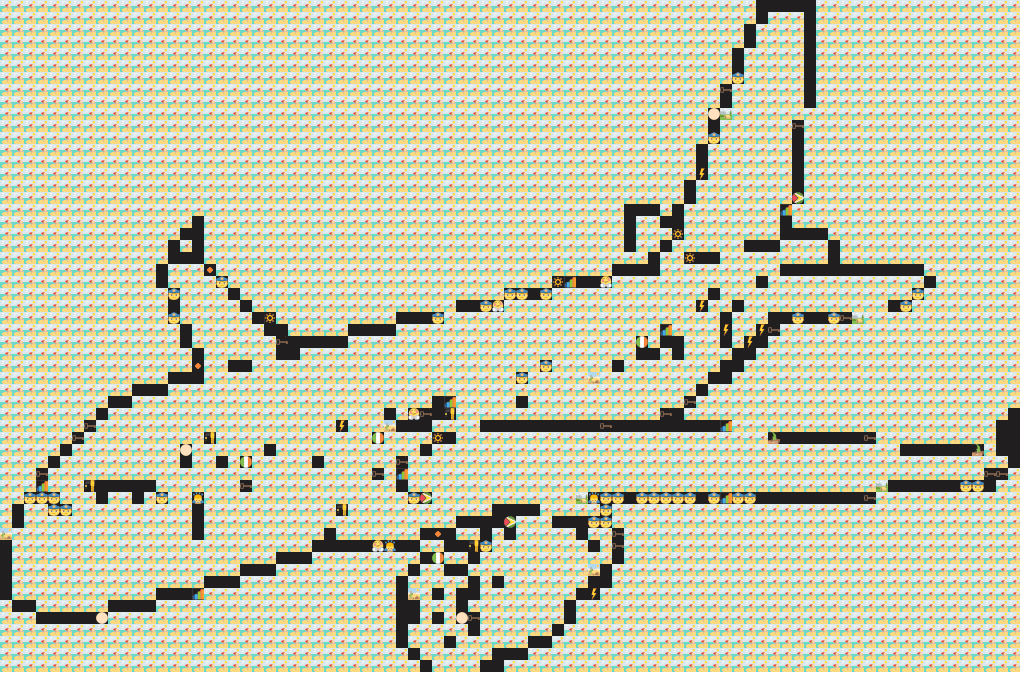
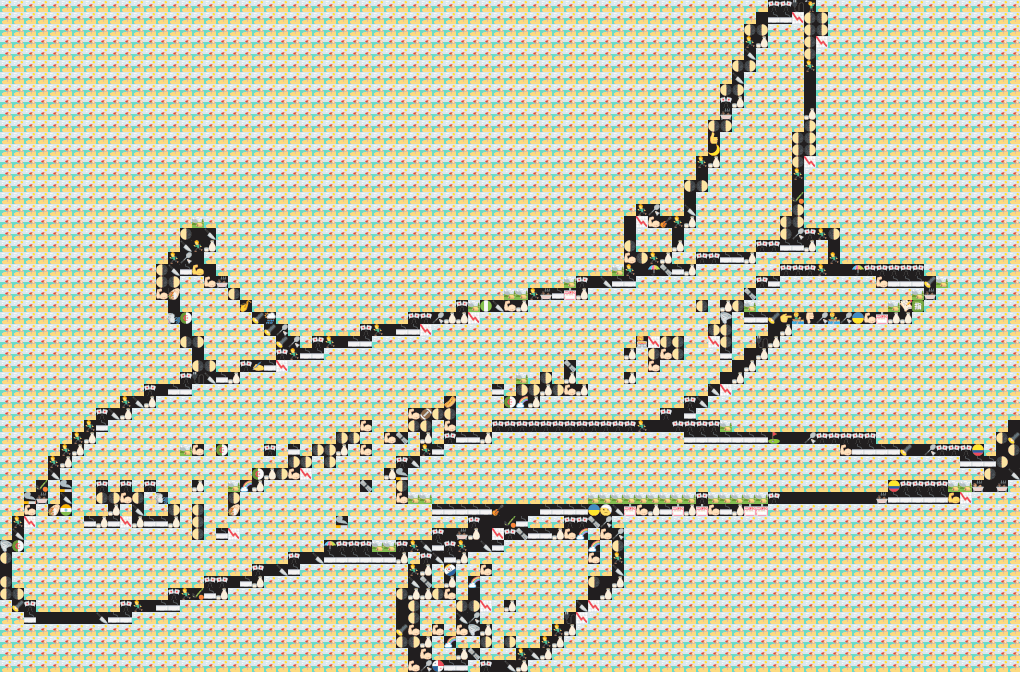
Hybrid map generator now works. Color + sub-char lookup!

Changed region(s): [[0.0, 0.0, 0.9375, 0.9853], [0.7812, 0.585, 1.0, 0.739], [0.75, 0.154, 0.8125, 0.2463]]

diff --git a/HybridMapgen.cs b/HybridMapgen.cs
@@ -1,7 +1,22 @@
 /*
 
-similar to PetsciiMapgen,
-except instead of the "value set" being NxN spacial tiles, the valueset will be 0-1 H,S,V (averaged).
+combination of the other 2 map generators.
+considers YUV components, spread over sub-char tiles.
+
+similar to video encoding, we give more detail to the Y component.
+So, Y is expressed through the spacial mapping.
+And UV are always given 1 component each (whole-char)
+
+This means more dimensions than before, which means bigger maps.
+You'll never go more than 2x2 for Y. and UV are 1
+so realistically this is ALWAYS 6 dimensions.
+
+Each dimension can theoretically have N discrete values, however for simplicity and performance I just want 
+to make them all have the same buckets.
+
+the original 2x2x16 map had 64k entries and felt reasonable. To achieve that
+with 6 dimensions, it means about 6 values per dimension. and heck that's not
+bad at all really.
 
  */
 
@@ -18,35 +33,43 @@ using System.Linq.Expressions;
 using System.Runtime.CompilerServices;
 using System.Drawing.Imaging;
 
-using ValueSet = PetsciiMapgen.ValueSet;
-using Utils = PetsciiMapgen.Utils;
-using CharInfo = PetsciiMapgen.CharInfo;
-using Mapping = PetsciiMapgen.Mapping;
-
-namespace HSVMapgen
+namespace PetsciiMapgen
 {
-  public class PetsciiMap
+  public class HybridMap
   {
-    public ValueSet weights = new ValueSet(-1);
+    public ValueSet weights = new ValueSet(-1); // weights for calculating distance.
     public Bitmap mapBmp;
     public Size charSize;
+    public Size tilesPerCell;
     public int valuesPerComponent;
+    public int componentsPerCell; // # of dimensions (UV + Y*size)
 
-    public PetsciiMap(string fontFileName, Size charSize, int valuesPerComponent)
+    private HybridMap()
     {
-      this.weights[0] = .6;
-      this.weights[1] = .2;
-      this.weights[2] = .2;
+      //
+    }
 
+    public HybridMap(string fontFileName, Size charSize, Size tilesPerCell, int valuesPerComponent, double Yweight, double UVweight)
+    {
+      // we want Y to be weighted at .6 and UV to be .4.
+      this.weights[0] = UVweight / 2;
+      this.weights[1] = UVweight / 2;
+      int numYcomponents = Utils.Product(tilesPerCell);
+      for (int i = 0; i < numYcomponents; ++ i)
+      {
+        this.weights[i + 2] = Yweight / numYcomponents;
+      }
+
+      this.tilesPerCell = tilesPerCell;
       this.charSize = charSize;
       this.valuesPerComponent = valuesPerComponent;
+      this.componentsPerCell = numYcomponents + 2;
 
       var srcImg = System.Drawing.Image.FromFile(fontFileName);
-
       var srcBmp = new Bitmap(srcImg);
-      System.Drawing.Size numSrcChars = Utils.Div(srcImg.Size, charSize);
+      Size numSrcChars = Utils.Div(srcImg.Size, charSize);
 
-      double numDestCharacters = Math.Pow(valuesPerComponent, 3);
+      double numDestCharacters = Math.Pow(valuesPerComponent, componentsPerCell);
 
       Console.WriteLine("Src character size: " + Utils.ToString(charSize));
       Console.WriteLine("Src image size: " + Utils.ToString(srcBmp.Size));
@@ -54,22 +77,18 @@ namespace HSVMapgen
       Console.WriteLine("Number of source chars (1d): " + Utils.Product(numSrcChars));
       Console.WriteLine("Chosen values per tile: " + valuesPerComponent);
       Console.WriteLine("Resulting map will have this many entries: " + numDestCharacters);
-      //int maxUsages = (int)Math.Ceiling(numDestCharacters / Utils.Product(numSrcChars));
-      //Console.WriteLine("Characters shall be re-used maximum: " + maxUsages);
-
-      //double pixelsPerTileAvgX = (double)charSize.Width / numTilesPerChar.Width;
-      //double pixelsPerTileAvgY = (double)charSize.Height / numTilesPerChar.Height;
-      //double pixelsPerTile = pixelsPerTileAvgX * pixelsPerTileAvgY;
 
       // fill in char source info (actual tile values)
       var charInfo = new List<CharInfo>();
       int pixelsPerChar = Utils.Product(charSize);
-      Utils.ValueRangeInspector indY = new Utils.ValueRangeInspector();
-      Utils.ValueRangeInspector indU = new Utils.ValueRangeInspector();
-      Utils.ValueRangeInspector indV = new Utils.ValueRangeInspector();
-      Utils.ValueRangeInspector avgY = new Utils.ValueRangeInspector();
-      Utils.ValueRangeInspector avgU = new Utils.ValueRangeInspector();
-      Utils.ValueRangeInspector avgV = new Utils.ValueRangeInspector();
+
+      // used for normalization later
+      List<Utils.ValueRangeInspector> ranges = new List<Utils.ValueRangeInspector>();
+      for (int i = 0; i < componentsPerCell; ++ i)
+      {
+        ranges.Add(new Utils.ValueRangeInspector());
+      }
+
       for (int y = 0; y < numSrcChars.Height; ++y)
       {
         for (int x = 0; x < numSrcChars.Width; ++x)
@@ -82,62 +101,36 @@ namespace HSVMapgen
             srcIndex = new Point(x, y)
           };
 
-          // process this single tile of this char.
-          for (int py = 0; py < charSize.Height; ++py)
+          ProcessCharacter(srcBmp, ci);
+
+          for (int i = 0; i < componentsPerCell; ++i)
           {
-            for (int px = 0; px < charSize.Width; ++px)
-            {
-              var c = srcBmp.GetPixel(ci.srcOrigin.X + px, ci.srcOrigin.Y + py);
-              //double hue, saturation, value;
-              //Utils.ColorToHSV(c, out hue, out saturation, out value);
-              //hue /= 360.0;
-              //hue = 0.0;
-              //ci.actualValues[0] += hue;
-              //ci.actualValues[1] += saturation;
-              //ci.actualValues[2] += value;
-              double cy, cu, cv;
-              Utils.RGBtoYUV(c, out cy, out cu, out cv);
-              ci.actualValues[0] += cy;
-              ci.actualValues[1] += cu;
-              ci.actualValues[2] += cv;
-
-              indY.Visit(cy);
-              indU.Visit(cu);
-              indV.Visit(cv);
-            }
+            ranges[i].Visit(ci.actualValues[i]);
           }
-          // divide => average. note that because we're using averages over
-          // a big area, it's less likely to reach 0.0 or 1.0. some kind of normalization might be needed.
-          ci.actualValues[0] /= pixelsPerChar;
-          ci.actualValues[1] /= pixelsPerChar;
-          ci.actualValues[2] /= pixelsPerChar;
-
-          avgY.Visit(ci.actualValues[0]);
-          avgU.Visit(ci.actualValues[1]);
-          avgV.Visit(ci.actualValues[2]);
 
           charInfo.Add(ci);
         }
       }
 
       Console.WriteLine("RANGES encountered:");
-      Console.WriteLine("  individual Y: " + indY);
-      Console.WriteLine("  individual U: " + indU);
-      Console.WriteLine("  individual V: " + indV);
-      Console.WriteLine("  avg Y       : " + avgY);
-      Console.WriteLine("  avg U       : " + avgU);
-      Console.WriteLine("  avg V       : " + avgV);
+      for (int i = 0; i < componentsPerCell; ++i)
+      {
+        Console.WriteLine("  [" + i + "]: " + ranges[i]);
+      }
 
       // normalize all YUV seen so it will correspond nicely with permutations.
+      Console.WriteLine("Normalizing values...");
       foreach (var ci in charInfo)
       {
-        ci.actualValues[0] = avgY.Normalize01(ci.actualValues[0]);
-        ci.actualValues[1] = avgU.Normalize01(ci.actualValues[1]);
-        ci.actualValues[2] = avgV.Normalize01(ci.actualValues[2]);
+        for (int i = 0; i < componentsPerCell; ++i)
+        {
+          ci.actualValues[i] = ranges[i].Normalize01(ci.actualValues[i]);
+        }
       }
 
       // create list of all mapkeys
-      var keys = Utils.Permutate(3, Utils.GetDiscreteValues(valuesPerComponent));
+      Console.WriteLine("Generating permutations...");
+      var keys = Utils.Permutate(componentsPerCell, Utils.GetDiscreteValues(valuesPerComponent));
 
       // - generate a list of all mappings and their distances
       // - accumulate versatility for chars
@@ -232,6 +225,60 @@ namespace HSVMapgen
       mapBmp.Save("..\\..\\img\\map.png");
     }
 
+    internal static HybridMap Load(string path, Size charSize, Size tilesPerCell, int valuesPerComponent)
+    {
+      HybridMap ret = new HybridMap();
+      ret.mapBmp = new Bitmap(Bitmap.FromFile(path));
+      ret.charSize = charSize;
+      ret.tilesPerCell = tilesPerCell;
+      ret.valuesPerComponent = valuesPerComponent;
+      ret.weights = null;
+      ret.componentsPerCell = 2 + Utils.Product(tilesPerCell);
+      return ret;
+    }
+
+  // fills in the actual component values for this character.
+  private void ProcessCharacter(Bitmap srcBmp, CharInfo ci)
+    {
+      int componentIndex = 0;
+      double charU = 0, charV = 0;
+      for (int sy = 0; sy < tilesPerCell.Height; ++sy)
+      {
+        for (int sx = 0; sx < tilesPerCell.Width; ++sx)
+        {
+          // process a tile
+          Size tileSize;
+          Point tilePos;
+          Utils.GetTileInfo(ci.size, tilesPerCell, sx, sy, out tilePos, out tileSize);
+          // process this single tile of this char.
+          // grab all pixels for this tile and calculate Y component for each
+          int tilePixelCount = 0;
+          double tileY = 0;
+          for (int py = 0; py < tileSize.Height; ++py)
+          {
+            for (int px = 0; px < tileSize.Width; ++px)
+            {
+              var c = srcBmp.GetPixel(ci.srcOrigin.X + tilePos.X + px, ci.srcOrigin.Y + tilePos.Y + py);
+              double pixY, pixU, pixV;
+              Utils.RGBtoYUV(c, out pixY, out pixU, out pixV);
+              tileY += pixY;
+              charU += pixU;
+              charV += pixV;
+              tilePixelCount++;
+            }
+          }
+
+          ci.actualValues[componentIndex] = tileY / tilePixelCount;// normalized to pixel
+          componentIndex++;
+        }
+      }
+
+      int pixelsPerChar = Utils.Product(ci.size);
+      ci.actualValues[componentIndex] = charU / pixelsPerChar;
+      componentIndex++;
+      ci.actualValues[componentIndex] = charV / pixelsPerChar;
+      componentIndex++;
+    }
 
     public void PETSCIIIZE(string srcImagePath, string destImagePath, bool shade)
     {
@@ -240,7 +287,7 @@ namespace HSVMapgen
       Bitmap destImg = new Bitmap(testBmp.Width, testBmp.Height, PixelFormat.Format32bppArgb);
 
       int mapCellsX = mapBmp.Width / charSize.Width;
-      int maxID = (int)Math.Pow(valuesPerComponent, 3);
+      int numDestCharacters = (int)Math.Pow(valuesPerComponent, componentsPerCell);
 
       using (var g = Graphics.FromImage(destImg))
       {
@@ -252,15 +299,29 @@ namespace HSVMapgen
           {
             // sample in the cell to determine the "key" "ID".
             int ID = 0;
-            Color srcColor = testBmp.GetPixel(srcCellX * charSize.Width + (charSize.Width/2), srcCellY * charSize.Height + (charSize.Height/2));
-            srcColor = Utils.AdjustContrast(srcColor, 1.2);
-            //srcColor = Color.Black;
+            double charU = 0, charV = 0;// accumulate Cr and Cb
 
-            double cy, cu, cv;
-            Utils.RGBtoYUV(srcColor, out cy, out cu, out cv);
-            vals[2] = Utils.Clamp(cy,0,1);// reverse order from how they're put into the map
-            vals[1] = Utils.Clamp(cu, 0, 1);
-            vals[0] = Utils.Clamp(cv, 0, 1);
+            for (int ty = tilesPerCell.Height - 1; ty >= 0; --ty)
+            {
+              for (int tx = tilesPerCell.Width - 1; tx >= 0; --tx)
+              {
+                Point tilePos = Utils.GetTileOrigin(charSize, tilesPerCell, tx, ty);
+                Color srcColor = testBmp.GetPixel(((srcCellX) * charSize.Width) + tilePos.X, ((srcCellY) * charSize.Height) + tilePos.Y);
+
+                srcColor = Utils.AdjustContrast(srcColor, 1.2);
+
+                double cy, cu, cv;
+                Utils.RGBtoYUV(srcColor, out cy, out cu, out cv);
+
+                int tileIndex = tx + (ty * tilesPerCell.Width);
+                vals[this.componentsPerCell - 1 - tileIndex] = Utils.Clamp(cy, 0, 1);
+                charU += cu;
+                charV += cv;
+              }
+            }
+            int numTiles = Utils.Product(tilesPerCell);
+            vals[1] = Utils.Clamp(charU / numTiles, 0, 1);
+            vals[0] = Utils.Clamp(charV / numTiles, 0, 1);
 
             // figure out which "ID" this value corresponds to.
             // (val - segCenter) would give us the boundary. for example between 0-1 with 2 segments, the center vals are .25 and .75.
@@ -269,10 +330,9 @@ namespace HSVMapgen
             // value regardless of scale or any rounding issues.
             double halfSegCenter = 0.25 / valuesPerComponent;
 
-            for(int i = 0; i < 3; ++ i )
+            for(int i = 0; i < this.componentsPerCell; ++ i )
             {
               double val = vals[i];
-              //val = 0.0;
               val -= halfSegCenter;
               val = Utils.Clamp(val, 0, 1);
               val *= valuesPerComponent;
@@ -280,9 +340,9 @@ namespace HSVMapgen
               ID += (int)Math.Floor(val);
             }
 
-            if (ID >= maxID)
+            if (ID >= numDestCharacters)
             {
-              ID = maxID - 1;
+              ID = numDestCharacters - 1;
             }
 
             // ID is now calculated.

diff --git a/Program.cs b/Program.cs
@@ -27,7 +27,7 @@ namespace PetsciiMapgen
       //PetsciiMap map = new PetsciiMap("..\\..\\img\\fonts\\c64_uppercase_norm.png", new Size(8, 8), new Size(2, 2), 16);
       //PetsciiMap map = new PetsciiMap("..\\..\\img\\fonts\\c64_all_onlyblock.gif", new Size(8, 8), new Size(2, 2), 16);
       //PetsciiMap map = new PetsciiMap("..\\..\\img\\fonts\\emoji-unknown-dark-24.png", new Size(24, 24), new Size(1, 1), 512);
-      var map = new HSVMapgen.PetsciiMap("..\\..\\img\\fonts\\emoji-unknown-dark-12.png", new Size(12, 12), 16);
+      //var map = new HybridMap("..\\..\\img\\fonts\\emoji-unknown-dark-12.png", new Size(12, 12), new Size(2,2), 6, 0.6, 0.4);
       //var map = new HSVMapgen.PetsciiMap("..\\..\\img\\fonts\\pantoneswatches-8x8.png", new Size(8, 8), 16);
       //PetsciiMap map = new PetsciiMap("..\\..\\img\\fonts\\c64_all.gif", new Size(8, 8), new Size(1, 1), 256);
       //PetsciiMap map = new PetsciiMap("..\\..\\img\\fonts\\test-16blocks8x8.png", new Size(8, 8), new Size(2, 2), 2);
@@ -36,6 +36,8 @@ namespace PetsciiMapgen
       //PetsciiMap map = new PetsciiMap("..\\..\\img\\fonts\\Vga-rom-font.png", new Size(8, 16), new Size(2, 2), 16);
       //PetsciiMap map = new PetsciiMap("..\\..\\img\\fonts\\Vga-rom-font-RVS.png", new Size(8, 16), new Size(2, 2), 16);
       //PetsciiMap map = new PetsciiMap("..\\..\\img\\fonts\\VGA-Boxonly.png", new Size(8, 16), new Size(2, 2), 16);
+
+      var map = HybridMap.Load("..\\..\\img\\maps\\mapHybrid-emoji12x12-2x2x6.png", new Size(12, 12), new Size(2, 2), 6);
 
       map.PETSCIIIZE("..\\..\\img\\airplane.jpg", "..\\..\\img\\testdest-airplane.png", false);
       map.PETSCIIIZE("..\\..\\img\\circle.png", "..\\..\\img\\testdest-circle.png", false);

diff --git a/Utils.cs b/Utils.cs
@@ -13,7 +13,6 @@ using System.Runtime.InteropServices;
 
 namespace PetsciiMapgen
 {
-
   // basically wraps List<Value>.
   // simplifies code that wants to do set operations.
   public class ValueSet : IComparable<ValueSet>, IEqualityComparer<ValueSet>
